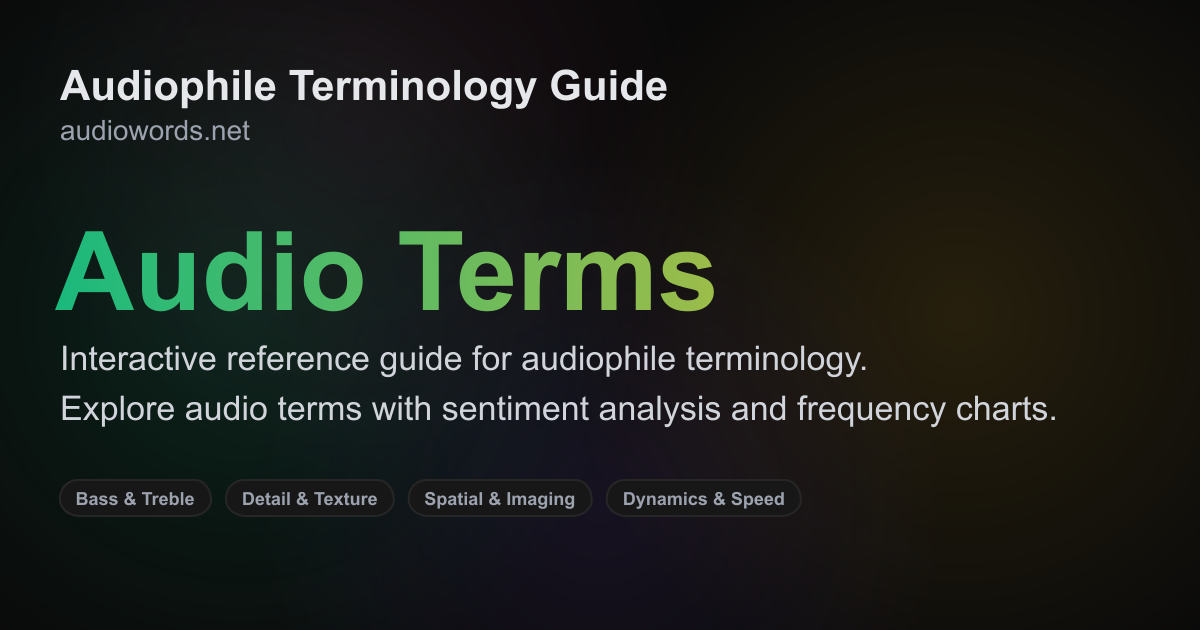
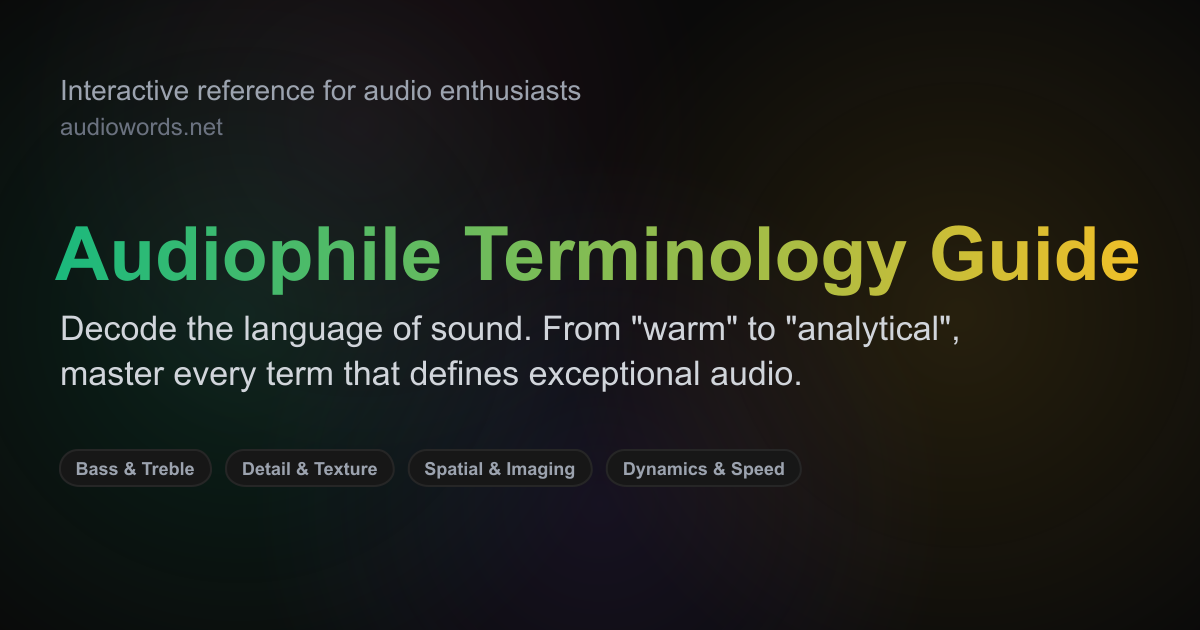
nicer index og image

diff --git a/scripts/generate-index-og.js b/scripts/generate-index-og.js
@@ -49,37 +49,45 @@ async function generateIndexOG() {
     ctx.fillStyle = gradient4;
     ctx.fillRect(0, 0, 1200, 630);
 
-    // Top section with site branding
-    ctx.fillStyle = '#e5e7eb'; // neutral-200
-    ctx.font = 'bold 42px Arial, sans-serif';
-    ctx.textAlign = 'left';
-    ctx.fillText('Audiophile Terminology Guide', 60, 100);
-
-    // Site URL
+    // Small title at top
     ctx.fillStyle = '#9ca3af'; // neutral-400
     ctx.font = '28px Arial, sans-serif';
-    ctx.fillText('audiowords.net', 60, 140);
+    ctx.textAlign = 'left';
+    ctx.fillText('Interactive reference for audio enthusiasts', 60, 100);
 
-    // Main title (left aligned)
+    // Site URL
+    ctx.fillStyle = '#6b7280'; // neutral-500 (slightly dimmer)
+    ctx.font = '24px Arial, sans-serif';
+    ctx.fillText('audiowords.net', 60, 135);
+
+    // Main title (large, left aligned)
     const titleGradient = ctx.createLinearGradient(0, 0, 1200, 0);
     titleGradient.addColorStop(0, '#10b981'); // emerald-500
     titleGradient.addColorStop(1, '#fbbf24'); // amber-500
     
     ctx.fillStyle = titleGradient;
     ctx.textAlign = 'left';
-    ctx.font = 'bold 110px Arial, sans-serif';
-    ctx.fillText('Audio Terms', 55, 310);
+    
+    // Check if title fits, adjust font size if needed
+    let titleFontSize = 110;
+    ctx.font = `bold ${titleFontSize}px Arial, sans-serif`;
+    while (ctx.measureText('Audiophile Terminology Guide').width > 1090 && titleFontSize > 70) {
+      titleFontSize -= 5;
+      ctx.font = `bold ${titleFontSize}px Arial, sans-serif`;
+    }
+    
+    ctx.fillText('Audiophile Terminology Guide', 55, 280);
 
-    // Summary text (left aligned)
+    // New compelling summary text (left aligned)
     ctx.fillStyle = '#d1d5db'; // neutral-300
     ctx.font = '34px Arial, sans-serif';
     ctx.textAlign = 'left';
-    ctx.fillText('Interactive reference guide for audiophile terminology.', 60, 370);
-    ctx.fillText('Explore audio terms with sentiment analysis and frequency charts.', 60, 420);
+    ctx.fillText('Decode the language of sound. From "warm" to "analytical",', 60, 340);
+    ctx.fillText('master every term that defines exceptional audio.', 60, 385);
 
     // Sample category tags (bottom section) - representing the main categories
     const sampleTags = ['Bass & Treble', 'Detail & Texture', 'Spatial & Imaging', 'Dynamics & Speed'];
-    const tagsY = 480;
+    const tagsY = 450;
     const tagHeight = 36;
     const tagPadding = 16;
     const tagSpacing = 15;
